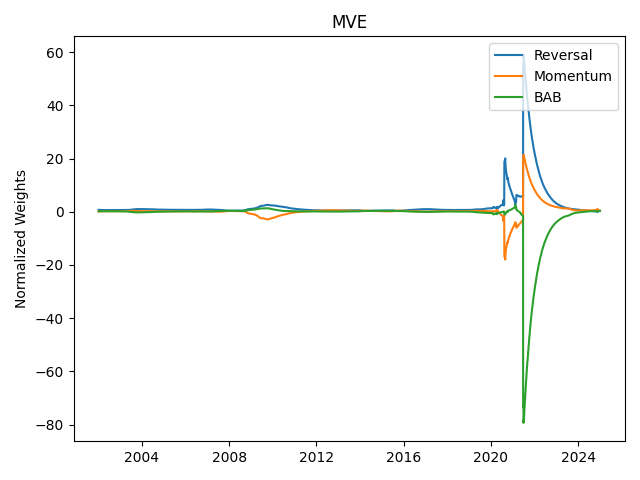
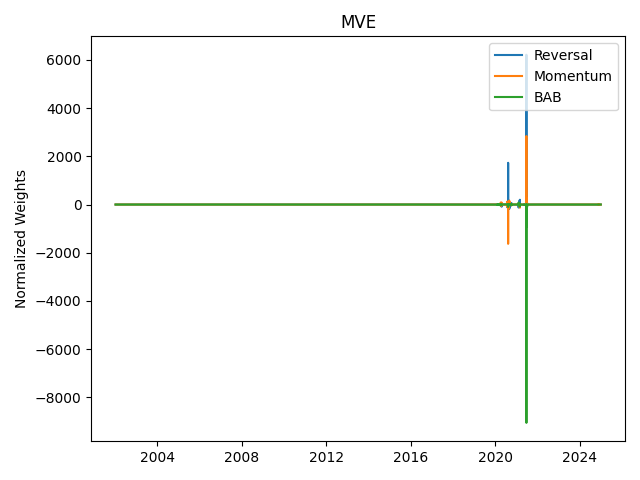
Updated plots. Added new returns plots.

diff --git a/experiments/fama_macbeth.py b/experiments/fama_macbeth.py
@@ -3,9 +3,10 @@ import datetime as dt
 import polars_ols as pls
 from signals.expr import momentum, reversal, bab
 from signals.utils import get_assets_data
-from experiments.utils import save_weights_lineplot, save_weights_stackplot, save_values_lineplot
+from experiments.utils import save_weights_lineplot, save_weights_stackplot, save_values_lineplot, save_returns_plot
 from pathlib import Path
 
+signal_names = ['reversal', 'momentum', 'bab']
 start = dt.date(2000, 1, 1)
 end = dt.date(2024, 12, 31)
 WINDOW = 252
@@ -94,6 +95,7 @@ gammas = (
 )
 
 span = WINDOW
+weight_columns = [f'w_{name}' for name in signal_names]
 signal_weights = (
     gammas
     .with_columns(
@@ -125,9 +127,63 @@ w_reversal = signal_weights['w_reversal'].to_list()
 w_momentum = signal_weights['w_momentum'].to_list()
 w_bab = signal_weights['w_bab'].to_list()
 
+# Load returns (mve)
+returns_list = []
+for signal_name in signal_names:
+    returns = pl.read_parquet(f"data/mve_returns/{signal_name}.parquet")
+    returns = returns.filter(pl.col('date').is_between(start, end)).sort('date')
+    returns = returns.with_columns(pl.lit(signal_name).alias('name'))
+    returns_list.append(returns)
+
+returns: pl.DataFrame = pl.concat(returns_list)
+returns = (
+    returns
+    .pivot(index='date', on='name', values='return')
+    .drop_nulls()
+    .sort('date')
+)
+
+returns_long = (
+    returns
+    .unpivot(index='date', variable_name='signal_name', value_name='return')
+    .sort('date', 'signal_name')
+    .with_columns(
+        pl.col('return').shift(-2).over('signal_name')
+    )
+)
+
+signal_weights_long = (
+    signal_weights
+    .unpivot(index='date', on=weight_columns, variable_name='signal_name', value_name='weight')
+    .with_columns(
+        pl.col('signal_name').str.split('_').list.get(1)
+    )
+)
+
+portfolio_returns = (
+    signal_weights_long
+    .join(
+        other=returns_long,
+        on=['date', 'signal_name'],
+        how='left'
+    )
+    .drop_nulls('return')
+    .group_by('date')
+    .agg(
+        pl.col('return').mul(pl.col('weight')).sum()
+    )
+    .sort('date')
+)
+
 # Save results
 folder_path = Path("results/fama_macbeth")
 folder_path.mkdir(exist_ok=True, parents=True)
+
+save_returns_plot(
+    returns=portfolio_returns,
+    file_path=folder_path / "returns.png",
+    title='Fama-Macbeth'
+)
 
 save_values_lineplot(
     values=signal_weights,

diff --git a/experiments/mve.py b/experiments/mve.py
@@ -1,6 +1,6 @@
 import polars as pl
 import numpy as np
-from utils import save_weights_lineplot, save_weights_stackplot, save_values_lineplot
+from utils import save_weights_lineplot, save_weights_stackplot, save_values_lineplot, save_returns_plot
 from pathlib import Path
 import datetime as dt
 
@@ -53,18 +53,57 @@ for t in range(WINDOW, len(R_full)):
     )
 
 # Combine and smooth weights
+weight_columns = [f'w_{name}' for name in signal_names]
 signal_weights = pl.DataFrame(rows)
 signal_weights = (
     signal_weights
     .sort('date')
     .with_columns(
-        pl.exclude('date').ewm_mean(span=WINDOW)
+        pl.col(weight_columns).ewm_mean(span=WINDOW)
     )
+)
+
+returns_long = (
+    returns
+    .unpivot(index='date', variable_name='signal_name', value_name='return')
+    .sort('date', 'signal_name')
+    .with_columns(
+        pl.col('return').shift(-1).over('signal_name')
+    )
+)
+
+signal_weights_long = (
+    signal_weights
+    .unpivot(index='date', on=weight_columns, variable_name='signal_name', value_name='weight')
+    .with_columns(
+        pl.col('signal_name').str.split('_').list.get(1)
+    )
+)
+
+portfolio_returns = (
+    signal_weights_long
+    .join(
+        other=returns_long,
+        on=['date', 'signal_name'],
+        how='left'
+    )
+    .drop_nulls('return')
+    .group_by('date')
+    .agg(
+        pl.col('return').mul(pl.col('weight')).sum()
+    )
+    .sort('date')
 )
 
 # Save results
 folder_path = Path("results/mve")
 folder_path.mkdir(exist_ok=True, parents=True)
+
+save_returns_plot(
+    returns=portfolio_returns,
+    file_path=folder_path / "returns.png",
+    title='MVE'
+)
 
 save_values_lineplot(
     values=signal_weights,

diff --git a/pipelines/mve_returns.py b/pipelines/mve_returns.py
@@ -6,21 +6,7 @@ import numpy as np
 from pipelines.configs import configs
 import seaborn as sns
 import matplotlib.pyplot as plt
-
-def save_returns_plot(data: pl.DataFrame, signal_name: str):
-    title = {
-        'momentum': 'Momentum',
-        'reversal': 'Reversal',
-        'bab': 'BAB'
-    }[signal_name]
-
-    sns.lineplot(data, x='date', y='return')
-    plt.title(title)
-    plt.xlabel(None)
-    plt.ylabel('Cumulative Log Return (%)')
-    plt.tight_layout()
-    plt.savefig(f"results/mve_returns/{signal_name}.png")
-    plt.clf()
+from experiments.utils import save_returns_plot
 
 start = dt.date(2000, 1, 1)
 end = dt.date(2024, 12, 31)
@@ -57,19 +43,20 @@ for config in configs:
     print(f"{signal_name}:")
     print(f"    Volatility (%): {volatility:2%}")
 
-    cumulative_returns = (
-        portfolio_returns
-        .sort('date')
-        .with_columns(
-            pl.col('return')
-            .log1p()
-            .cum_sum()
-            .mul(100)
-        )
-    )
+    # Save plot
+    file_path = Path(f"results/mve_returns{signal_name}.png")
+    file_path.parent.mkdir(parents=True, exist_ok=True)
+
+    title = {
+        'momentum': 'Momentum',
+        'reversal': 'Reversal',
+        'bab': 'BAB'
+    }[signal_name]
+
     save_returns_plot(
-        data=cumulative_returns,
-        signal_name=signal_name
+        returns=portfolio_returns,
+        file_path=file_path,
+        title=title
     )
 
     # Save returns

diff --git a/experiments/bayesian.py b/experiments/bayesian.py
@@ -1,6 +1,6 @@
 import polars as pl
 import numpy as np
-from utils import save_weights_lineplot, save_weights_stackplot, save_values_lineplot
+from utils import save_weights_lineplot, save_weights_stackplot, save_values_lineplot, save_returns_plot
 from pathlib import Path
 import datetime as dt
 
@@ -71,9 +71,47 @@ signal_weights = (
     )
 )
 
+returns_long = (
+    returns
+    .unpivot(index='date', variable_name='signal_name', value_name='return')
+    .sort('date', 'signal_name')
+    .with_columns(
+        pl.col('return').shift(-1).over('signal_name')
+    )
+)
+
+signal_weights_long = (
+    signal_weights
+    .unpivot(index='date', on=weight_columns, variable_name='signal_name', value_name='weight')
+    .with_columns(
+        pl.col('signal_name').str.split('_').list.get(1)
+    )
+)
+
+portfolio_returns = (
+    signal_weights_long
+    .join(
+        other=returns_long,
+        on=['date', 'signal_name'],
+        how='left'
+    )
+    .drop_nulls('return')
+    .group_by('date')
+    .agg(
+        pl.col('return').mul(pl.col('weight')).sum()
+    )
+    .sort('date')
+)
+
 # Save results
 folder_path = Path("results/bayesian")
 folder_path.mkdir(exist_ok=True, parents=True)
+
+save_returns_plot(
+    returns=portfolio_returns,
+    file_path=folder_path / "returns.png",
+    title='Bayesian'
+)
 
 save_values_lineplot(
     values=signal_weights,

diff --git a/pipelines/quantile_returns.py b/pipelines/quantile_returns.py
@@ -6,21 +6,7 @@ from pathlib import Path
 import seaborn as sns
 import matplotlib.pyplot as plt
 import polars as pl
-
-def save_returns_plot(data: pl.DataFrame, signal_name: str):
-    title = {
-        'momentum': 'Momentum',
-        'reversal': 'Reversal',
-        'bab': 'BAB'
-    }[signal_name]
-
-    sns.lineplot(data, x='date', y='return')
-    plt.title(title)
-    plt.xlabel(None)
-    plt.ylabel('Cumulative Log Return (%)')
-    plt.tight_layout()
-    plt.savefig(f"results/quantile_returns/{signal_name}.png")
-    plt.clf()
+from experiments.utils import save_returns_plot
 
 start = dt.date(2000, 1, 1)
 end = dt.date(2024, 12, 31)
@@ -45,9 +31,20 @@ for signal_expr in [momentum, reversal, bab]:
         )
     )
 
+    # Save plot
+    file_path = Path(f"results/quantile_returns/{signal_name}.png")
+    file_path.parent.mkdir(parents=True, exist_ok=True)
+
+    title = {
+        'momentum': 'Momentum',
+        'reversal': 'Reversal',
+        'bab': 'BAB'
+    }[signal_name]
+
     save_returns_plot(
-        data=cumulative_returns,
-        signal_name=signal_name
+        returns=returns,
+        file_path=file_path,
+        title=title
     )
 
     file_path = Path(f"data/quantile_returns/{signal_name}.parquet")

diff --git a/experiments/utils.py b/experiments/utils.py
@@ -2,6 +2,7 @@ import matplotlib.pyplot as plt
 import seaborn as sns
 import datetime as dt
 import polars as pl
+import numpy as np
 
 def save_weights_stackplot(dates: list[dt.date], *args, labels: list[str], file_path: str, title: str):
     plt.stackplot(dates, *args, labels=labels)
@@ -32,6 +33,28 @@ def save_values_lineplot(values: pl.DataFrame, columns: list[str], labels: list[
     plt.ylabel(value_name)
     plt.xlabel(None)
     plt.legend(loc="upper right")
+    plt.tight_layout()
+    plt.savefig(file_path)
+    plt.clf()
+
+def save_returns_plot(returns: pl.DataFrame, file_path: str, title: str):
+    cumulative_returns = (
+        returns
+        .with_columns(
+            pl.col('return')
+            .log1p()
+            .cum_sum()
+        )
+    )
+
+    mean_return = returns['return'].mean() * 252
+    volatility = returns['return'].std() * np.sqrt(252)
+    sharpe = mean_return / volatility
+
+    sns.lineplot(cumulative_returns, x='date', y='return')
+    plt.title(f"{title} ({sharpe:.2f})")
+    plt.xlabel(None)
+    plt.ylabel('Cumulative Log Return (%)')
     plt.tight_layout()
     plt.savefig(file_path)
     plt.clf()
